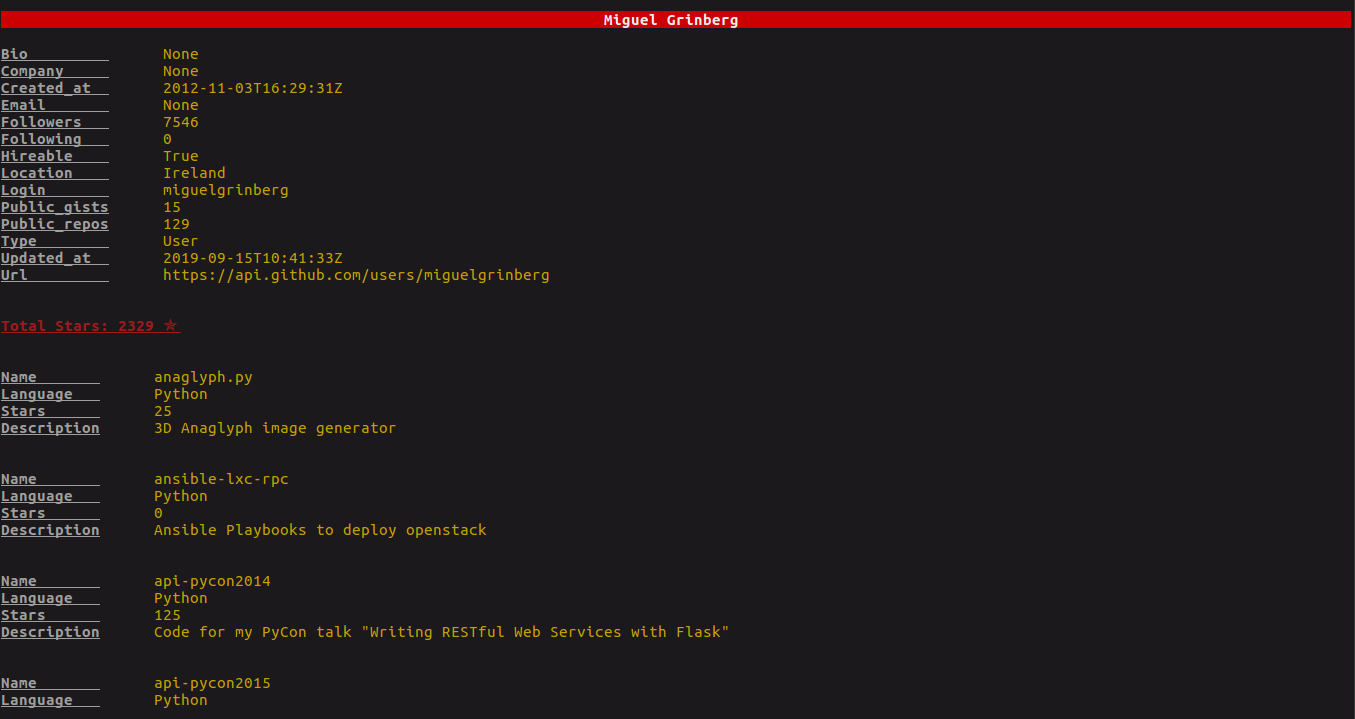
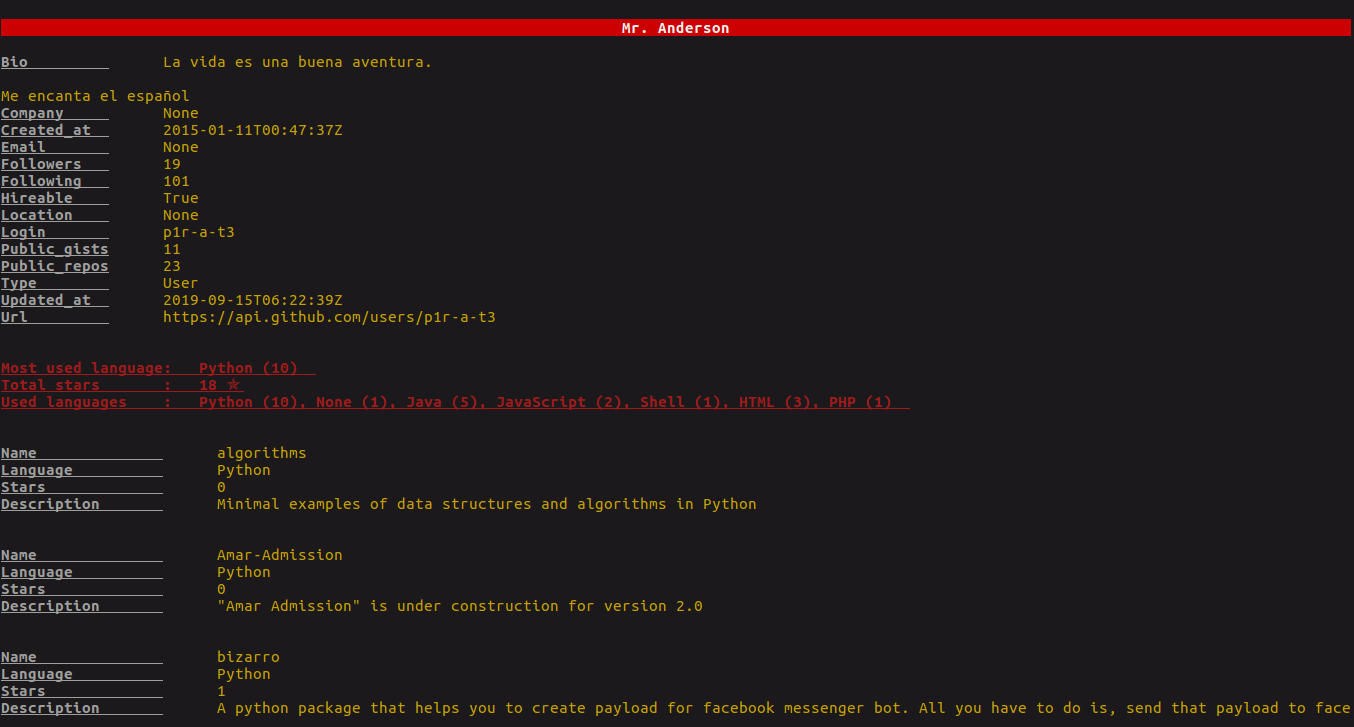
added most used language, used language count

Changed region(s): [[0.0, 0.4896, 1.0, 1.0], [0.0, 0.0, 1.0, 0.459]]

diff --git a/inspector/utils.py b/inspector/utils.py
@@ -1,7 +1,10 @@
+import operator
+
 import requests
 import shutil
 from termcolor import colored
 from os import path
+from collections import Counter
 
 
 def get_all_urls(json_data):
@@ -37,9 +40,14 @@ def filter_repo_data(repos):
 def represent_repo_data(repo_data):
     repo_data = filter_repo_data(repo_data)
     total_stars = sum([_data["stars"] for _data in repo_data])
+    used_languages = dict(Counter([_data["language"] for _data in repo_data]))
+    most_used_language_count = max(used_languages.values())
+    most_used_language = {max(used_languages.items(), key=operator.itemgetter(1))[0]: most_used_language_count}
 
     representational_data = {
         "total_stars": total_stars,
+        "used_languages": used_languages,
+        "most_used_language": most_used_language,
         "repo_data": repo_data
     }
     return representational_data
@@ -118,8 +126,24 @@ def filter_and_print_basic_info(_data):
     print_dict(printable_dict, max_size)
 
 
+def get_printable_string_from_dict(_data):
+    return ", ".join([f"{key} ({_data[key]})" for key in _data])
+
+
 def filter_and_print_repo_info(_data):
-    print(colored(f"Total Stars: {_data['total_stars']} ✯ ", "red", attrs=["bold", "dark", "underline"]))
+    max_size = len(max(_data.keys(), key=len))
+    for key in sorted(_data):
+        if key != "repo_data":
+            print(
+                colored(
+                    f"{key.replace('_', ' ').capitalize()}{' ' * (max_size - len(key))}:   "
+                    f"{_data[key] if not isinstance(_data[key], dict) else f'{get_printable_string_from_dict(_data[key])}'}"
+                    f" {'✯' if key == 'total_stars' else ''} ",
+                    "red", attrs=["bold", "dark", "underline"]
+                ),
+                end="     ")
+            print()
+
     print_divider(1)
 
     max_size = len(max(_data.keys(), key=len))

diff --git a/run.py b/run.py
@@ -1,5 +1,6 @@
 from inspector.main_class import GitInspect
 
 
-inspect = GitInspect("miguelgrinberg")
+# inspect = GitInspect("miguelgrinberg")
+inspect = GitInspect("p1r-a-t3")
 
